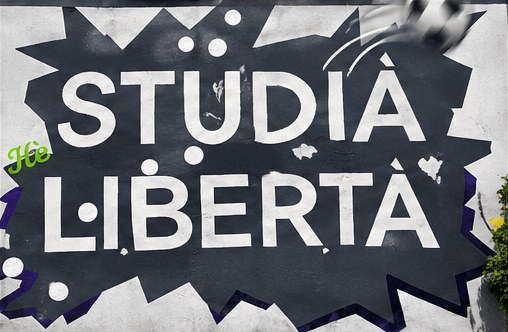
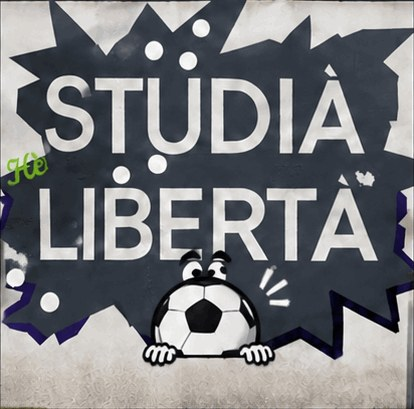
GIF au format de l'image, suppression des anciens GIF

diff --git a/index.html b/index.html
@@ -108,7 +108,7 @@
           id="clip"
           src="#f0"
           width="361.2"
-          height="236"
+          height="356.8"
           position="0 1 0"
           rotation="-90 0 0"
           material="shader: flat; side: double"
@@ -167,7 +167,7 @@
     });
 
     // taille réelle de l'image scannée (en mm) -> on centre et on ajuste la vidéo
-    var VIDEO_RATIO = 508 / 332; // largeur / hauteur du GIF
+    var VIDEO_RATIO = 414 / 409; // largeur / hauteur du GIF
     window.addEventListener('arjs-nft-init-data', function (e) {
       var d = e.detail;                       // { dpi, width, height } (pixels)
       var wMM = d.width / d.dpi * 25.4;       // largeur de l'image scannée en unités AR.js (mm)
